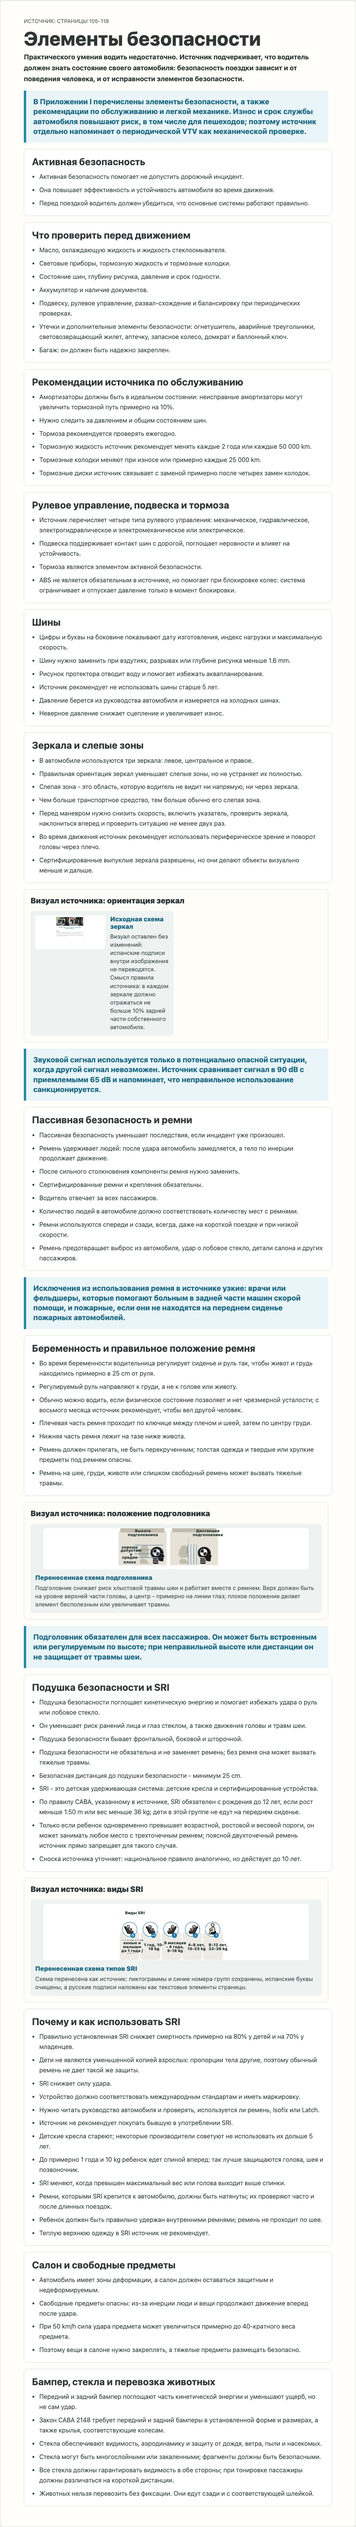
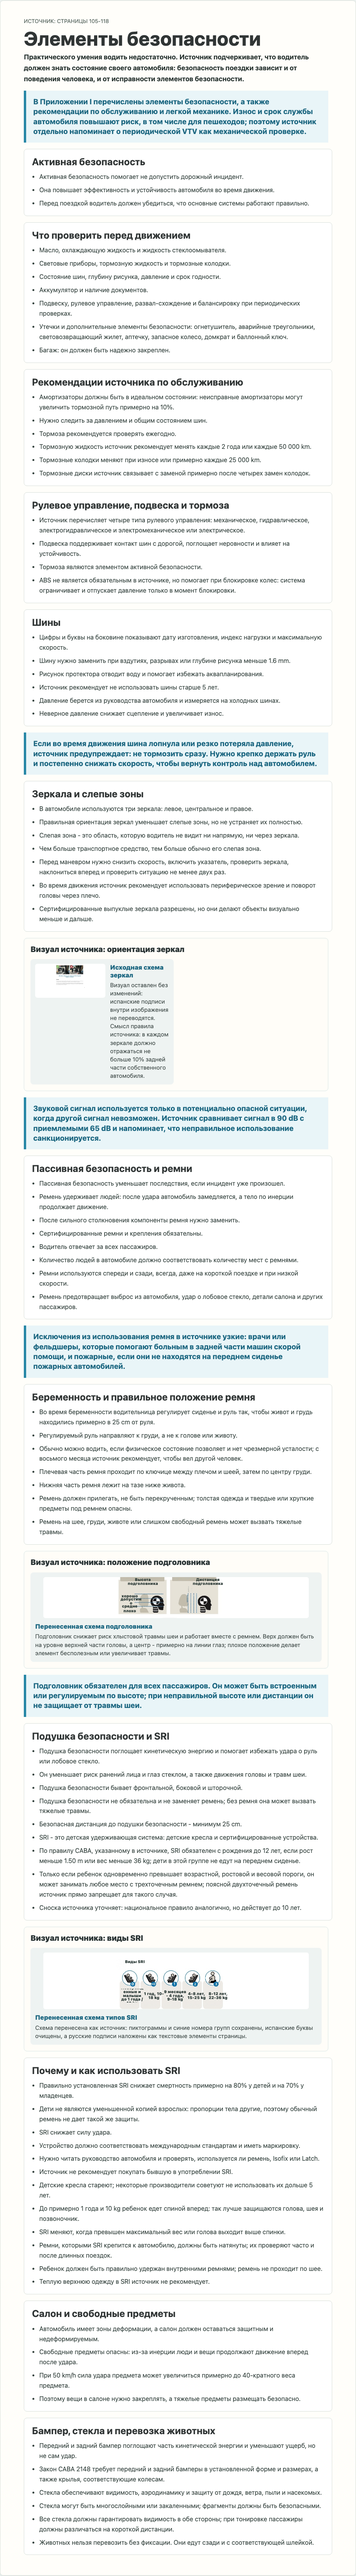
Add Appendix I tire blowout guidance

Changed region(s): [[0.0, 0.0, 1.0, 1.0]]

diff --git a/src/data/manual-sections/app1-safety-elements.ts b/src/data/manual-sections/app1-safety-elements.ts
@@ -144,6 +144,14 @@ export const app1SafetyElementsSection: ManualGuideSectionContent = {
       ]
     },
     {
+      id: "tire-blowout",
+      kind: "callout",
+      sourceTextEs:
+        "Pinchaduras. Si esto ocurre mientras se está manejando: no frenar inmediatamente; es aconsejable desacelerar lentamente y sujetar firmemente el volante.",
+      textRu:
+        "Если во время движения шина лопнула или резко потеряла давление, источник предупреждает: не тормозить сразу. Нужно крепко держать руль и постепенно снижать скорость, чтобы вернуть контроль над автомобилем."
+    },
+    {
       id: "mirrors-and-blind-spots",
       kind: "list",
       titleRu: "Зеркала и слепые зоны",

diff --git a/specs/031-manual-document-completion/tasks.md b/specs/031-manual-document-completion/tasks.md
@@ -97,7 +97,7 @@ For each chapter-equivalent content PR:
 | Chapter 3 content | pages `57-88` | branch `codex/031-chapter-3`; PR #188, https://github.com/cucumberfalse/cabadrive/pull/188 | `49c145e9dd4f4661f99d05f79c3e55ed425d4155` | implementation content head `4f0c782505242b9cc8583af7644e5f6f44173254`; speed/highway review-fix content head `2c128758de15de388a03f090ad394e39f3c36377`; outside-CABA speed-table repair included at effective content head `f56c42d075dc92d61523301b1f84c3a33faf3a3e`; repeat Architect and Analyst validation passed for that effective head; finalizer-readable parser repair evidence head `60d366fd946841919f8740f27710d906b2a47d8d`; current/final PR head is verified by Orchestrator final guards/finalizer before merge | ready for final guards after process-memory-only row freshness repair for `PRRT_kwDOSX65IM6GzRmW`; post-effective commits are final-validation/process-memory evidence only; no Chapter 4+ content bundled | yes |
 | Chapter 4 content | pages `89-97` | branch `codex/031-chapter-4`; PR #189, https://github.com/cucumberfalse/cabadrive/pull/189 | `19fecc3a1a2ca4ab9273cdbe6833e7d6d5d7ef27` | implementation content head `2338c3a5e777cbd469f9ca23bcbbbf9dbbd4c62b`; first review-fix head before visual-fidelity repair `2f4aad4250fdd63e66495d515274293d2721a737`; prior validated effective content head `a8ecdac9daed66274ba51fb04ecbe47279aae2f6`; page-93 boundary review-fix and prior effective content head `17dd8db5872dc90586191b6e9c972cfbe681da7b`; refusal-procedure localization review-fix head `201693cc9e4a4a3e1313650c7f6ca57d613af1b8`; strict infographic visual-rule repair effective content head `9b5b74b9b19b756225ffd50b2ba1df4732c56ab3`; final-validation evidence transport head `528d8eab9e57b660096e95f6dcabc43a8750835f`; motorcycle-passenger alcohol-limit scope repair effective content head `3de005c1b46ea8b28b96b6ec46d4d51d61719dae`; final-validation evidence transport head before overlay-label repair `1c826ed8b518764749c4d146f7147fdf260f2146`; overlay-label visual-rule repair for Codex P2 `3352010484`; overlay-label mobile clipping repair for Review Agent comment `3352219633`; alcohol-effects localization repair for Codex P2 `3352233947`; sleep/fatigue remedy localization repair for Review Agent comment `3352327144`; broader learner-facing localization audit for Review Agent comment `3352354749`; current effective content head `4e819cfd80ebf09b4d3db560a6bc3b57766ef39a` | Chapter 4 content and review fixes for `PRRT_kwDOSX65IM6G1K3A`, `PRRT_kwDOSX65IM6G1LSI`, visual-fidelity thread `PRRT_kwDOSX65IM6G1aYu`, Codex review comment `3350790136`, Codex P2 comments `3351081820`, `3351219753`, `3351329538`, `3351663509`, `3352010484`, `3352233947`, and Review Agent comments `3352219633`, `3352327144`, and `3352354749` are implemented and locally verified in this PR follow-up; prior final validation/evidence for pre-repair heads including `3de005c1b46ea8b28b96b6ec46d4d51d61719dae`, `d3d712ce488560c3d3747cbc54d1489a84774cbe`, `2af2a57520f68f8090376699615a4cab41885d2d`, `fa568d5b1aec3e2e546e44d1ba43c39418ff731b`, and `adfcbbbdac50658c1a80ef8e22dd88554c579a5e` is superseded by fresh Architect validation for effective content head `4e819cfd80ebf09b4d3db560a6bc3b57766ef39a`; no Chapter 5+ content bundled | yes |
 | Chapter 5 content | pages `98-103` | branch `codex/031-chapter-5`; PR #190, https://github.com/cucumberfalse/cabadrive/pull/190 | `f3b756315141f859f097e6af47d088c16ccac910` | implementation content head `fa6983a6be8069b4bb4aaa51140a218c6ada3096`; Review Agent P2 `3352682015` localization repair head reported by IA handoff; automated Codex P2 visual/boundary repairs `3352716346` and `3352716350` head reported by IA handoff | ready PR open; Chapter 5 implementation, Review Agent P2 localization repair, and automated Codex visual/boundary repairs complete locally; fresh final validation is required on the new repair head; no Appendix/front-matter content bundled | yes |
-| Appendix I content | pages `104-122` | branch `codex/031-appendix-i`; PR #191, https://github.com/cucumberfalse/cabadrive/pull/191 | `b63639a20e413f339266e2e91ce63c377377230a` | implementation content head `e108ba86293b3ff0d3d5443aaf7f9b99f8d8d550`; first process-memory head `794a80c1bad67c7f94488e396ae357d36fc89963`; Review Agent P2 localization repair head reported by IA handoff | ready PR open; Appendix I implementation and Review Agent P2 localization fixes complete locally; no Appendix II/III/IV or front-matter content bundled | yes |
+| Appendix I content | pages `104-122` | branch `codex/031-appendix-i`; PR #191, https://github.com/cucumberfalse/cabadrive/pull/191 | `b63639a20e413f339266e2e91ce63c377377230a` | implementation content head `e108ba86293b3ff0d3d5443aaf7f9b99f8d8d550`; first process-memory head `794a80c1bad67c7f94488e396ae357d36fc89963`; Review Agent P2 localization repair head, automated Codex SRI/screenshot/title repair head, and tire-blowout page `109` repair head reported by IA handoff | ready PR open; Appendix I implementation, Review Agent P2 localization fixes, automated Codex SRI/screenshot/title fixes, and automated Codex tire-blowout guidance fix complete locally; no Appendix II/III/IV or front-matter content bundled | yes |
 | Appendix II content | pages `123-151` | pending | pending | pending | pending | yes |
 | Appendix III content | pages `152-183` | pending | pending | pending | pending | yes |
 | Appendix IV content | pages `184-200` | pending | pending | pending | pending | yes |
@@ -114,7 +114,7 @@ For each chapter-equivalent content PR:
 | Chapter 3 | `57-88` | One chapter PR covering `ch3-priority-of-rules`, `ch3-right-of-way`, `ch3-lights`, `ch3-speed`, `ch3-turns`, `ch3-overtaking`, `ch3-highways`, `ch3-adverse-conditions`, and `ch3-stopping-parking`; page `57` divider skipped | implemented in branch `codex/031-chapter-3`; ready PR #188 open with pushed speed/highway review-fix head `2c128758de15de388a03f090ad394e39f3c36377` |
 | Chapter 4 | `89-97` | One chapter PR covering `ch4-alcohol-drugs`, `ch4-sleep-fatigue`, `ch4-stress`, and `ch4-distractions`; page `89` divider skipped; page `93` shared by alcohol/drugs and sleep/fatigue; page `94` shared by sleep/fatigue and stress; page `95` shared by stress recommendations and distractions with direct distractions navigation starting on page `95` | ready PR #189 at https://github.com/cucumberfalse/cabadrive/pull/189 from branch `codex/031-chapter-4`; implementation content head `2338c3a5e777cbd469f9ca23bcbbbf9dbbd4c62b`; page-93 boundary, refusal-procedure localization, stress-localization, strict infographic visual-rule repairs, Codex P2 `3351663509` motorcycle-passenger alcohol-limit scope repair, Codex P2 `3352010484` overlay-label visual-rule repair, Review Agent comment `3352219633` overlay-label mobile clipping repair, Codex P2 `3352233947` alcohol-effects localization repair, Review Agent comment `3352327144` sleep/fatigue remedy localization repair, and Review Agent comment `3352354749` broader learner-facing localization audit repair are included at effective content head `4e819cfd80ebf09b4d3db560a6bc3b57766ef39a`; ready for Analyst final validation after Architect validation at this head and later evidence transport/current-head guard |
 | Chapter 5 | `98-103` | One chapter PR covering `ch5-attitude-types`, `ch5-equal-society`, `ch5-gender-violence-prevention`, and `ch5-anticipatory-efficient-driving`; page `98` divider skipped; page `99` shared by attitude types and equality; page `100` shared by equality and gender-violence support; page `101` shared by gender-violence support and preventive/efficient driving | ready PR #190 open at https://github.com/cucumberfalse/cabadrive/pull/190 from branch `codex/031-chapter-5`; implementation content head `fa6983a6be8069b4bb4aaa51140a218c6ada3096`; current PR head reported by IA handoff |
-| Appendix I | `104-122` | One chapter-equivalent PR covering `app1-safety-elements`, `app1-other-required-safety-elements`, and `app1-recommended-safety-elements`; page `104` divider skipped | ready PR #191 open at https://github.com/cucumberfalse/cabadrive/pull/191 from branch `codex/031-appendix-i`; implementation content head `e108ba86293b3ff0d3d5443aaf7f9b99f8d8d550`; Review Agent P2 localization repair head reported by IA handoff |
+| Appendix I | `104-122` | One chapter-equivalent PR covering `app1-safety-elements`, `app1-other-required-safety-elements`, and `app1-recommended-safety-elements`; page `104` divider skipped | ready PR #191 open at https://github.com/cucumberfalse/cabadrive/pull/191 from branch `codex/031-appendix-i`; implementation content head `e108ba86293b3ff0d3d5443aaf7f9b99f8d8d550`; Review Agent P2 localization repair head, automated Codex SRI/screenshot/title repair head, and tire-blowout page `109` repair head reported by IA handoff |
 | Appendix II | `123-151` | One chapter-equivalent PR | pending |
 | Appendix III | `152-183` | One chapter-equivalent PR | pending |
 | Appendix IV | `184-200` | One chapter-equivalent PR; source-as-is signs/markings | pending |
@@ -200,6 +200,8 @@ For each chapter-equivalent content PR:
 - Review-fix decision, PR #191 visual/source scope: no source images, transferred infographics, screenshots, validation crops, source-page images, photos, signs, road markings, registry visual metadata, or runtime visual assets were modified for the localization repair. The intentionally untracked duplicate page `119` safety-elements crop remains preserved and unstaged because it is unrelated to these review findings.
 - AI Review-fix decision, PR #191 automated comments `3353344745`, `3353281144`, and `3353238651`: the SRI regular-seat rule now preserves the source's conjunctive `edad, estatura y peso` restriction by requiring the age, height, and weight thresholds to all be exceeded before a child can use a regular three-point-belt seat; the Appendix I screenshot evidence was regenerated from the current localized DOM; and the recommended-safety source title now uses the exact official `Elementos de seguridad recomendables` wording in runtime data, manual navigation/source registry traceability, validation script source inventory, tests, and feature memory.
 - AI Review-fix visual/source scope, PR #191: only Appendix I desktop/mobile screenshot evidence PNGs were regenerated from the current DOM. No source crops, source page images, photos, traffic signs, road markings, source-as-is mirror photo, or transferred infographic asset bytes were modified; the intentionally untracked duplicate page `119` safety-elements crop remains preserved and unstaged.
+- AI Review-fix decision, PR #191 automated comment `3353459655`: page `109` `Pinchaduras` guidance is now included before the mirror section in `app1-safety-elements`. Russian learner text tells drivers not to brake immediately after a tire bursts or abruptly loses pressure, to hold the steering wheel firmly, and to slow gradually to regain control. Official Spanish remains in `sourceTextEs` only, and tests now guard the page `109` rule.
+- AI Review-fix visual/source scope, PR #191 `3353459655`: adding the visible tire-blowout callout required refreshing Appendix I screenshot evidence. Only the `app1-safety-elements` desktop/mobile screenshots changed; source crops, source page images, photos, signs, road markings, the source-as-is mirror photo, and transferred infographic assets were not modified. The intentionally untracked duplicate page `119` safety-elements crop remains preserved and unstaged.
 - Validation staleness notice, PR #190: Review Agent comment `3352682015` required a post-PR non-evidence content/test/process repair after current head `a21074d42a3c10466288856a55c4e7207b0c3386`; therefore any final validation or final-validation evidence for `a21074d42a3c10466288856a55c4e7207b0c3386` is stale for finalization. The next pushed localization repair head must become the new effective content head and receive fresh Architect then Analyst final validation before finalization.
 - Validation staleness notice, PR #190: automated Codex comments `3352716346` and `3352716350` required a post-review non-evidence visual asset/registry/test/process repair after current head `c6a040a21162f6dd9ebc0474e20993e5b8cb45c6`; therefore any final validation or final-validation evidence for `c6a040a21162f6dd9ebc0474e20993e5b8cb45c6` is stale for finalization. The pushed visual/boundary repair head must become the new effective content head and receive fresh Architect then Analyst final validation before finalization.
 - Validation staleness decision, PR #189 `2026-06-03T18:25:31Z`: Codex review comment `3350790136` required a post-validation non-evidence content/test/registry/process repair after effective content head `a8ecdac9daed66274ba51fb04ecbe47279aae2f6` and current head `9d249963ff245f32f67384a4bc17f1361d8bb891`. Prior Architect and Analyst final validation for `a8ecdac9daed66274ba51fb04ecbe47279aae2f6` is stale for finalization; a new effective content head plus fresh Architect final validation followed by Analyst final validation is required after this repair is committed, pushed, and required checks pass.
@@ -389,7 +391,7 @@ For each chapter-equivalent content PR:
 - Base and scope evidence: `git rev-parse HEAD` before editing returned `b63639a20e413f339266e2e91ce63c377377230a`, matching the Orchestrator-assigned verified `origin/main` base after merged PR #190. Initial active-worktree status showed branch `codex/031-appendix-i` with untracked Appendix I visual/evidence directories from the interrupted prior attempt and no local commits. Work stayed in `/Users/chap/devel/cabadrive-worktrees/031-appendix-i` on branch `codex/031-appendix-i`.
 - Source extraction evidence: Appendix I source pages were rendered/exported from `content/official-documents/originals/gcba-manual-vehiculo-4-ruedas-2023.pdf` at x5-equivalent source resolution; source page renders were `2976x4209`. Validation source crops under `content/validation/manual-guide/appendix-1-private-cars/`, `app1-safety-elements/`, `app1-other-required-safety-elements/`, and `app1-recommended-safety-elements/` were copied from those renders without resizing, translation, cleanup, retouching, or broad masking.
[3 lines of base64/hex data omitted]
 - Browser evidence: in-app browser spot check at `http://127.0.0.1:5191/#manual-section-app1-safety-elements` confirmed `sectionId: app1-safety-elements`, `hasHeadrest: true`, `hasSri: true`, and `hasMirror: true`.
 - Focused verification passed: `node scripts/manual-guide-source-fidelity.mjs` passed with `status: pass`, `mode: section-registry-with-complete-chapters-1-through-5-and-appendix-1`, `sectionsChecked: 30`, `pendingSections: 0`, `implementedSections: 30`, `skippedSourcePages: [21,43,56,57,89,98,104]`, `skippedDividerPages: [21,43,57,89,98,104]`, `sharedSourcePages: [55,93,94,95,99,100,101]`, and `strictVisualRulePolicy: 031-strict-source-fidelity`.
 - Focused verification passed: `node --test tests/content-manual-guide-chapters.test.mjs` passed with `80` tests and `0` failures. New assertions cover Appendix I hierarchy, page `104` divider disposition, source ranges through page `122`, exact three section ids, private-car safety detail retention, strict visual metadata, source boundaries, and no Appendix II/III/IV bundling.
@@ -402,6 +404,8 @@ For each chapter-equivalent content PR:
 - PR #191 review-fix broader verification, `2026-06-04T03:39:05Z`: `node scripts/check-feature-memory.mjs --worktree` passed; `git diff --check` passed; `pnpm run test` passed with `389` tests and `0` failures; `pnpm run preflight` passed, including feature-memory gate, repository baseline check, content validation, `389` unit tests, production build, and `78` Playwright tests with `0` failures. The existing Vite large chunk warning appeared during builds and remains non-fatal/pre-existing.
 - PR #191 AI Review-fix screenshot/DOM verification, `2026-06-04T04:18:13Z`: Vite dev server ran on `http://127.0.0.1:5174`; the first screenshot attempt timed out because lower lazy images had not loaded, then the successful Playwright capture explicitly scrolled and loaded all section images before screenshotting. Desktop screenshots are `912px` wide; mobile screenshots are `1029px` wide at device scale factor `3`. Live DOM smoke passed for the corrected SRI sentence and localized Appendix I text, and rejected stale mixed-language phrases in safety, other-required, and recommended sections.
 - PR #191 AI Review-fix focused and broader verification, `2026-06-04T04:20:58Z`: `node --test tests/content-manual-guide-chapters.test.mjs` passed with `80` tests and `0` failures; `node scripts/manual-guide-source-fidelity.mjs` passed with `sectionsChecked: 30`, `pendingSections: 0`, and `implementedSections: 30`; `pnpm exec tsc --noEmit` passed; `pnpm run validate:manual-4ruedas` passed with `200/200` pages and `56` topics; `node scripts/check-feature-memory.mjs --worktree` passed; `git diff --check` passed; and `pnpm run preflight` passed, including content validation, `389` unit tests, production build, and `78` Playwright tests with `0` failures. The existing Vite large chunk warning appeared during builds and remains non-fatal/pre-existing.
+- PR #191 tire-blowout AI Review-fix screenshot/DOM verification, `2026-06-04T04:44:02Z`: Vite dev server ran on `http://127.0.0.1:5174`; Playwright recaptured Appendix I desktop/mobile screenshot evidence after explicitly loading lazy section images. `app1-safety-elements` screenshots changed to include the page `109` tire-blowout callout (`912x6594` desktop, `1029x38265` mobile); the other-required and recommended screenshots stayed byte-identical to the prior AI Review refresh. Live DOM smoke passed for visible Russian blowout guidance and confirmed `Pinchaduras` did not appear in learner-facing DOM text.
+- PR #191 tire-blowout AI Review-fix focused and broader verification, `2026-06-04T04:47:09Z`: after the final `titleRu`-free callout shape, `pnpm exec tsc --noEmit` passed; `node --test tests/content-manual-guide-chapters.test.mjs` passed with `80` tests and `0` failures; `node scripts/manual-guide-source-fidelity.mjs` passed with `sectionsChecked: 30`, `pendingSections: 0`, and `implementedSections: 30`; `node scripts/check-feature-memory.mjs --worktree` passed; `git diff --check` passed; and full `pnpm run preflight` passed, including feature-memory gate, repository baseline check, content validation, `389` unit tests, production build, service-worker generation, and `78` Playwright tests with `0` failures. The existing Vite large chunk warning appeared during builds and remains non-fatal/pre-existing.
 - Protected visual confirmation: no Appendix I photo, traffic sign, road-marking visual, source crop, validation crop, or source page image was translated, relabeled, recolored, retouched, masked, inpainted, reconstructed, or redrawn. The only Appendix I Spanish cleanup is the headrest/SRI transferred-infographic glyph cleanup from source crops; the mirror photo remains source-as-is.
 - Final handoff evidence: `git diff --cached --check` is run before each commit, and the final pushed PR head is reported by Implementation Agent handoff.
 
@@ -755,7 +759,7 @@ For each chapter-equivalent content PR:
 
 ## Implementation Agent Feedback
 
-- Implementation Agent feedback for Appendix I scope after Review Agent P2 comments `3353239049`, `3353239050`, and `3353239052`, and automated AI Review comments `3353344745`, `3353281144`, and `3353238651`: none requiring Architect disposition. Page `104` is divider-only; pages `105-122` are implemented as the assigned Appendix I content slice; no Appendix II/III/IV/front-matter or unrelated corrections are bundled. Learner-facing Appendix I text is localized to Russian except official abbreviations/units; the SRI regular-seat restriction now requires age, height, and weight thresholds to all be exceeded; source Spanish remains in `sourceTextEs`/evidence; recommended-safety traceability uses `Elementos de seguridad recomendables`. Protected mirror photo remains source-as-is with Russian explanation outside the image; headrest and SRI infographics are source-crop-based transferred PNGs with glyph/antialias-level Spanish cleanup, no readable Spanish, preserved source structure/numerals/pictograms, no broad plate-like artifacts, and selectable Russian labels/explanation. Local untracked duplicate `content/validation/manual-guide/app1-safety-elements/page-119-safety-elements-source-crop.jpg` is preserved but not staged because it is outside the safety-elements page range. Architect disposition requested: no action needed for Appendix I PR content.
+- Implementation Agent feedback for Appendix I scope after Review Agent P2 comments `3353239049`, `3353239050`, and `3353239052`, and automated AI Review comments `3353344745`, `3353281144`, `3353238651`, and `3353459655`: none requiring Architect disposition. Page `104` is divider-only; pages `105-122` are implemented as the assigned Appendix I content slice; no Appendix II/III/IV/front-matter or unrelated corrections are bundled. Learner-facing Appendix I text is localized to Russian except official abbreviations/units; the SRI regular-seat restriction now requires age, height, and weight thresholds to all be exceeded; the page `109` tire-blowout callout now advises no immediate braking, firm steering, and gradual slowing; source Spanish remains in `sourceTextEs`/evidence; recommended-safety traceability uses `Elementos de seguridad recomendables`. Protected mirror photo remains source-as-is with Russian explanation outside the image; headrest and SRI infographics are source-crop-based transferred PNGs with glyph/antialias-level Spanish cleanup, no readable Spanish, preserved source structure/numerals/pictograms, no broad plate-like artifacts, and selectable Russian labels/explanation. Local untracked duplicate `content/validation/manual-guide/app1-safety-elements/page-119-safety-elements-source-crop.jpg` is preserved but not staged because it is outside the safety-elements page range. Architect disposition requested: no action needed for Appendix I PR content.
 - Implementation Agent feedback for Chapter 5 scope after Review Agent comment `3352682015` and automated Codex comments `3352716346` / `3352716350`: none unresolved. Page `98` is divider-only; pages `99-103` are implemented as the assigned Chapter 5 content slice; page `99`, page `100`, and page `101` shared boundaries are recorded and tested; page `101` now coherently records that gender-violence support masks `11-25` continue after the preventive-driving heading at mask `09`; protected page `103` photo/quote remains source-as-is with Russian explanation outside the image; the page `100` mobility infographic is a source-crop-based transferred PNG with glyph-letter-level Spanish cleanup, `visibleSpanish=false`, source-crop provenance, cleaned `54%`/`50%`/`30%` row glyph fragments, and selectable Russian DOM labels over the cleaned infographic surface; the mixed-language preventive-driving title is localized to Russian and covered by regression tests. No Appendix/front-matter or unrelated content is bundled. Architect disposition: no action requested.
 - No unresolved Implementation Agent feedback. Architect disposition: disposed; no action needed for PR #190 at `46132199fb12a2590032b81d6c9b9ebc86efab44`.
 - Implementation Agent feedback for Chapter 4 scope after PR #189 review fixes through Review Agent comment `3352354749`: fully disposed. Architect disposition: disposed; no action needed for PR #189 at `4e819cfd80ebf09b4d3db560a6bc3b57766ef39a`. Page `89` remains divider-only; pages `90-97` are implemented as the assigned Chapter 4 content slice; page `93` alcohol/drugs-to-sleep/fatigue boundary, page `94` sleep/fatigue-to-stress boundary, and page `95` stress-to-distractions/direct-route boundary are recorded and tested. Visual/source-fidelity evidence keeps the page `90` drug-test photo and page `97` photo/quote as protected source-as-is x5 runtime crops with Russian learner explanation outside images, while the page `91` alcohol-limit and page `95` distraction-panel infographics are source-crop-based transferred PNGs with glyph-letter-level Spanish cleanup, `visibleSpanish=false`, source-crop provenance, selectable Russian labels over the cleaned infographic surfaces, and selectable Russian explanation/table content outside images. PR #189 review fixes for alcohol-limit rows, including the `acompañantes en motovehículos` legal scope, sleep/fatigue Russian wording, visual-fidelity thread `PRRT_kwDOSX65IM6G1aYu`, Codex review comments `3350790136`, `3351081820`, `3351219753`, `3351329538`, `3351663509`, `3352010484`, `3352233947`, and Review Agent comments `3352219633`, `3352327144`, and `3352354749` are implemented, locally verified, and included at the validated effective content head.
